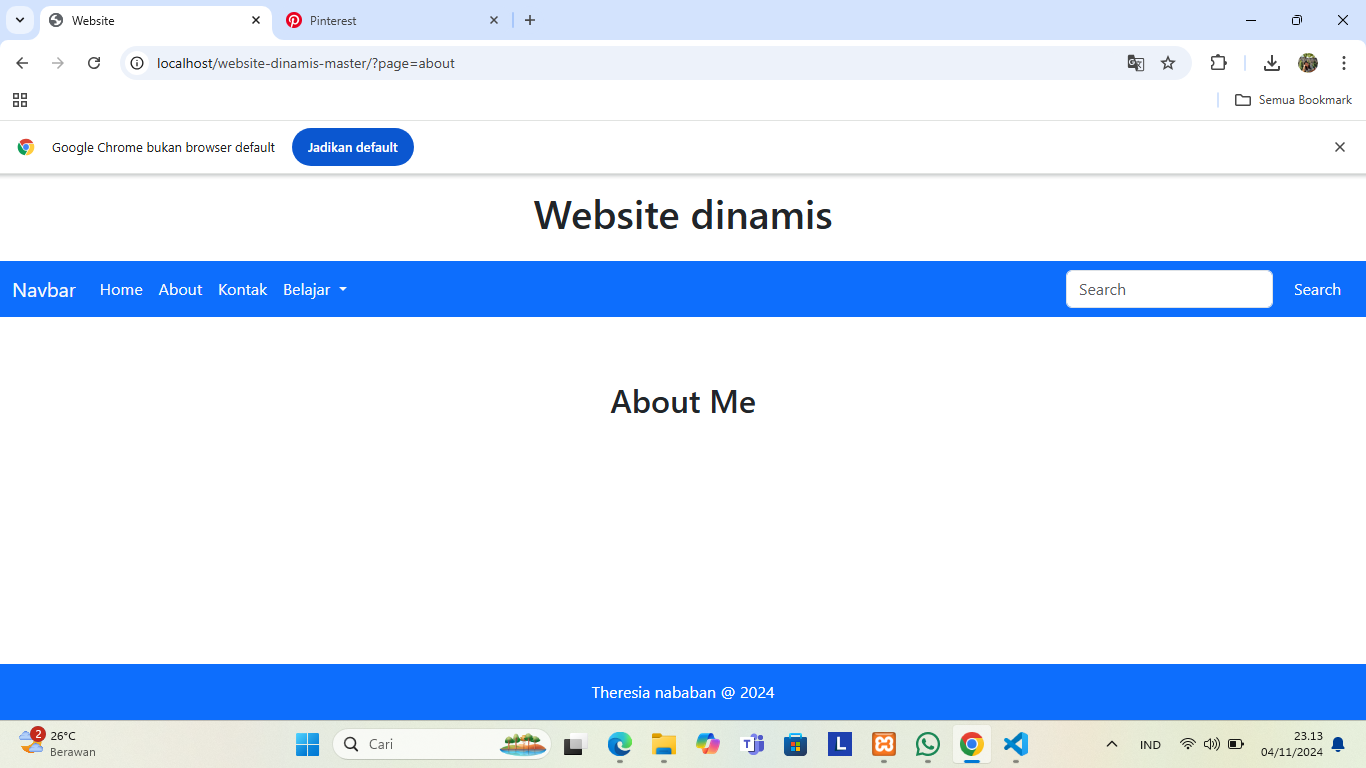
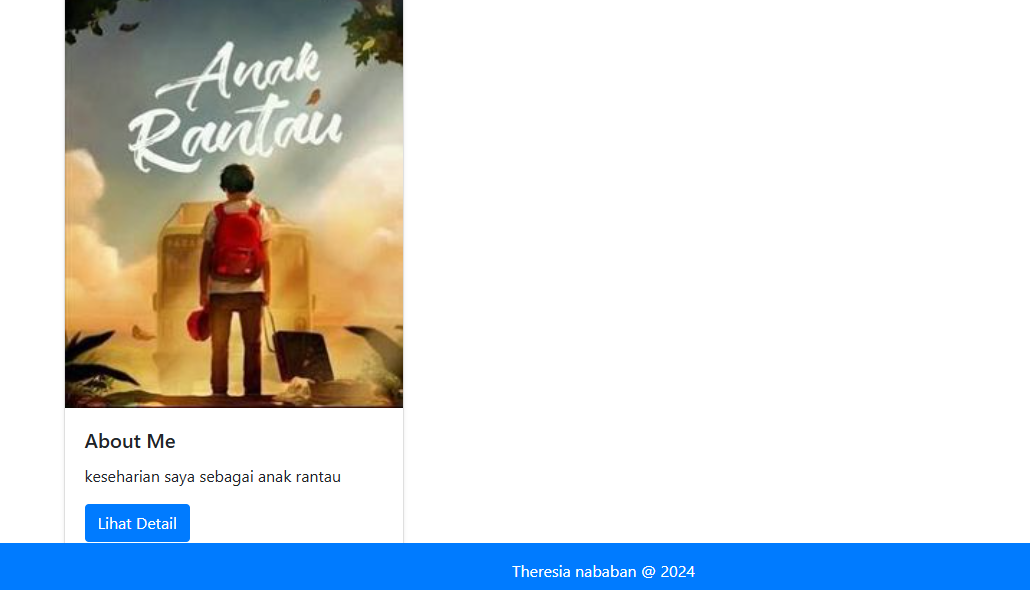
menambkan website dinamis

diff --git a/includes/about.php b/includes/about.php
@@ -1,8 +1,53 @@
-<!-- Portfolio Section -->
-<section id="portfolio" class="container py-5">
-    <h2 class="text-center mb-4">About Me</h2>
-    <div class="row">
+<!DOCTYPE html>
+<html lang="id">
 
-        
-    </div>
-</section>
+<head>
+    <meta charset="UTF-8">
+    <meta name="viewport" content="width=device-width, initial-scale=1.0">
+    <title>Portfolio Saya</title>
+    <link rel="stylesheet" href="https://stackpath.bootstrapcdn.com/bootstrap/4.5.2/css/bootstrap.min.css">
+</head>
+
+<body>
+    <!-- Portfolio Section -->
+    <section id="portfolio" class="container py-5">
+        <h2 class="text-center mb-4">Aboutme</h2>
+        <div class="row">
+            <?php
+            // Array proyek dengan data dinamis
+            $Aboutme = [
+
+                [
+                    "title" => "About Me",
+                    "image" => "assets/images/Aboutme.jpg",
+                    "description" => "keseharian saya sebagai anak rantau",
+                    "link" => "https://github.com/Theresianababan/Aboutme.git"
+                ],
+                
+
+            ];
+
+            // Menampilkan setiap proyek dalam array
+            foreach ($Aboutme as $Aboutme) {
+                echo '
+                <div class="col-md-4 mb-4">
+                    <div class="card h-100 shadow-sm">
+                        <img src="' . $Aboutme["image"] . '" class="card-img-top" alt="' . $Aboutme["title"] . '">
+                        <div class="card-body">
+                            <h5 class="card-title">' . $Aboutme["title"] . '</h5>
+                            <p class="card-text">' . $Aboutme["description"] . '</p>
+                            <a href="' . $Aboutme["link"] . '" class="btn btn-primary" target="_blank">Lihat Detail</a>
+                        </div>
+                    </div>
+                </div>';
+            }
+            ?>
+        </div>
+    </section>
+
+    <script src="https://code.jquery.com/jquery-3.5.1.slim.min.js"></script>
+    <script src="https://cdn.jsdelivr.net/npm/@popperjs/core@2.9.3/dist/umd/popper.min.js"></script>
+    <script src="https://stackpath.bootstrapcdn.com/bootstrap/4.5.2/js/bootstrap.min.js"></script>
+</body>
+
+</html>

diff --git a/includes/home.php b/includes/home.php
@@ -1,7 +1,7 @@
     <!-- Hero Section -->
     <section class="jumbotron text-center">
         <div class="container">
-            <h1 class="display-4">Hallo, Selamat Datang di Web Theresia Nababan</h1>
+            <h1 class="display-4">Selamat Datang di Web Theresia</h1>
             <p class="lead">Mahasiswa - Teknik Informatika</p>
             <a href="?page=about" class="btn btn-primary btn-lg">About me</a>
         </div>
@@ -15,7 +15,7 @@
             </div>
             <div class="col-md-6">
                 <h2>Tentang Saya</h2>
-                <p>Saya adalah Mahasiswa Teknik Informatika di Universitas Pelita Bangsa. 
+                <p> "Selamat datang di web saya" 
 
                 </p>
             </div>
